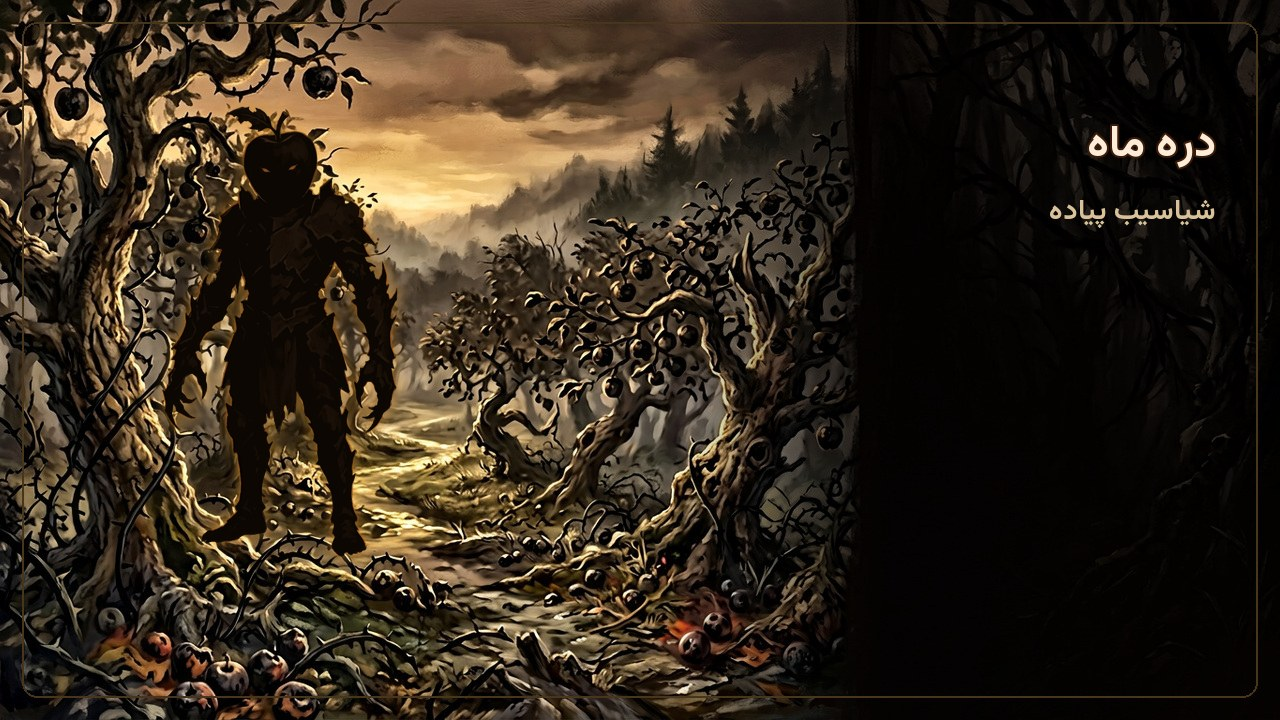
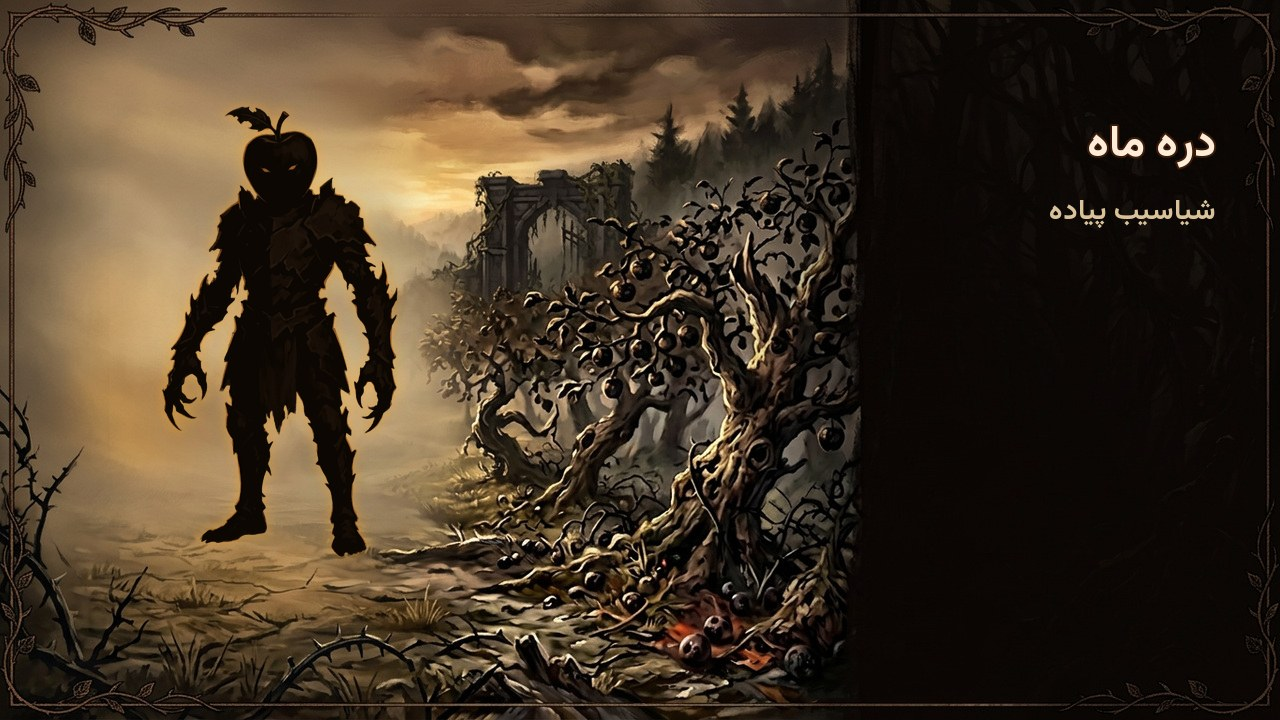
[phase-8a] finalize layout samples validation and report

diff --git a/tests/invasion_v2/test_imaging.py b/tests/invasion_v2/test_imaging.py
@@ -98,7 +98,7 @@ def test_cache_key_changes_with_manifest_version(tmp_path, monkeypatch):
     manifest_path.write_text(json.dumps(manifest))
     monkeypatch.setattr(templates, "ASSETS_ROOT", tmp_path)
     original = cache.cache_key("announcement", 123, "soldier")
-    manifest["version"] = "2"
+    manifest["version"] = f"{manifest['version']}-test-bump"
     manifest_path.write_text(json.dumps(manifest))
     assert cache.cache_key("announcement", 123, "soldier") != original
 

diff --git a/docs/invasion-rework/PHASE-8A-REPORT.md b/docs/invasion-rework/PHASE-8A-REPORT.md
@@ -4,26 +4,30 @@ Date: 2026-10-14 UTC
 Branch: `arena/0e56f627-sib`  
 Base: `8cc18ed5a9f93c631a3dcd21c49c0958e16b671d`
 
-## Status / release limitation
+## Final status
 
-**Static renderer implemented and tested; art acceptance partially blocked.**
-All 14 requested file paths exist and are committed, but there are **10 independent
-AI-generated source paintings plus 4 offline-derived layout plates**, not 14
-independent generations. The image service rejected all four layout requests with
-“Image generation limit of 10 reached for this turn.” No further generation was
-attempted after that response. These layouts are provisional integration assets,
-not final art approval. In particular:
+**All 14 independent AI-generated source images are now present, reviewed and
+committed. Static composition and the scoped regression checks are complete.**
+The original ten backgrounds/silhouettes are unchanged. Four dedicated layout
+paintings now replace every provisional derivative. Manifest version is **2**.
 
-- Victory is a gold/green-graded corrupted orchard, still too ominous; it does not
-  fully deliver the requested lush restored foliage and floating petals.
-- Defeat is a somber red/black ruined camp; the prominent shattered-apple motif
-  and falling ash requested for a dedicated painting are not fully realized.
-- Announcement and join have the required legibility/inset treatment, but are
-  derived from the soldier/king paintings rather than separately generated art.
+The first turn reached the service limit of ten image generations, as previously
+reported. Following the user's explicit continuation request, the four remaining
+images were generated successfully in the next turn; no generation limit was hit
+in that continuation. The earlier art-generation blocker is resolved.
 
-**Follow-up:** generate the four dedicated layouts in a subsequent turn, visually
-review them, update manifest hashes/version, rerun tests/benchmarks and refresh
-samples. Do not enable invasions or claim full visual completion on this basis.
+- Announcement: empty atmospheric orchard clearing on the left, dark caption panel
+  on the right, subtle botanical frame. An offline contrast pass ensures legibility.
+- Join: painterly corrupted orchard shrine with a soft neutral central portrait
+  inset; the 40%-opacity enemy reads clearly in the mist on the left.
+- Victory: restored green apple grove, radiant golden light, blossoms and floating
+  petals; an atmospheric painting without a border.
+- Defeat: charcoal ruins, cold ash, crimson embers and a prominent shattered red
+  apple; an atmospheric painting without a border.
+
+All four raw plates and the refreshed final compositions were visually reviewed
+for motifs, placement, absence of embedded text and legibility. This is local
+asset/compositor validation, not a live Telegram deployment or a flag activation.
 
 ## Style reference and font inspection
 
@@ -64,10 +68,10 @@ RGBA PNGs. All five silhouettes have an entirely transparent final 60 rows.
 | `backgrounds/king.jpg` | 1280×720 | 467,883 | RGB JPEG |
 | `backgrounds/shadow.jpg` | 1280×720 | 433,278 | RGB JPEG |
 | `backgrounds/soldier.jpg` | 1280×720 | 478,544 | RGB JPEG |
-| `layouts/announcement.jpg` | 1280×720 | 430,591 | RGB JPEG |
-| `layouts/defeat.jpg` | 1280×720 | 368,210 | RGB JPEG |
-| `layouts/join.jpg` | 1280×720 | 359,519 | RGB JPEG |
-| `layouts/victory.jpg` | 1280×720 | 547,877 | RGB JPEG |
+| `layouts/announcement.jpg` | 1280×720 | 296,459 | RGB JPEG |
+| `layouts/defeat.jpg` | 1280×720 | 324,258 | RGB JPEG |
+| `layouts/join.jpg` | 1280×720 | 330,404 | RGB JPEG |
+| `layouts/victory.jpg` | 1280×720 | 442,548 | RGB JPEG |
 | `silhouettes/brute.png` | 400×560 | 134,097 | RGBA PNG |
 | `silhouettes/commander.png` | 400×560 | 117,284 | RGBA PNG |
 | `silhouettes/king.png` | 400×560 | 113,877 | RGBA PNG |
@@ -83,16 +87,21 @@ RGBA PNGs. All five silhouettes have an entirely transparent final 60 rows.
   fitted each figure within a 352×452 safe area on a 400×560 transparent canvas,
   and baked a faint type-colored halo into alpha. There is no white background or
   extraction step at runtime. Silhouettes were reviewed against a dark surface.
-- Announcement derives from soldier: a soft right-side darkening and subtle
-  static frame. Join derives from king: dark softly vignetted portrait inset.
-  Victory derives from soldier with a brighter green/gold split grade; defeat
-  derives from commander with a dark red/black grade. These changes happen offline
-  and are baked into the committed JPEGs, not redrawn by the bot.
-- `manifest.json` version `1`, generator `manual-ai`, uses the actual UTC
-  preparation timestamp and SHA-256 calculated from each final file's bytes.
+- Four dedicated layout paintings were generated separately, using the existing
+  orchard/throne-room paintings and Green Knight's foliage/light as style
+  references only. They are not crops or grades substituted for new artwork.
+  Each was fitted to 1280×720 using Lanczos and saved as quality-94 JPEG (4:4:4).
+- Announcement's decorative edge had bright pixels in the right third. A smooth
+  offline-only darkening pass was baked into the right panel before final JPEG
+  export. No runtime background drawing or extra asset is needed.
+- `manifest.json` version **`2`**, generator `manual-ai`, uses the final preparation
+  UTC timestamp and recomputed SHA-256 for all 14 final files. The original ten
+  background/silhouette files retain exactly the same hashes as version 1.
   Source scratch images and processing intermediates are not tracked.
-- WCAG relative luminance computed over **every decoded JPEG pixel** in the
-  announcement right third yields a minimum white-text contrast of **10.6904:1**.
+- WCAG relative luminance computed over **every decoded JPEG pixel** in the final
+  announcement right third yields minimum white-text contrast **6.3315:1**,
+  exceeding the required 4.5:1. The previous derivative's 10.69:1 measurement
+  does not describe the replacement plate.
 
 ## Runtime implementation and compatibility
 
@@ -137,11 +146,11 @@ Python 3.11.2; Pillow 12.3.0; Linux x86_64; `raqm=False`.
 
 | Output | Mean ms (20 runs) | Max ms | First call ms* |
 |---|---:|---:|---:|
-| announcement | 11.31 | 12.29 | 38.00 |
-| join-normal | 106.87 | 118.78 | 139.40 |
-| join-crit | 125.01 | 161.52 | 121.80 |
-| victory | 25.56 | 26.16 | 40.25 |
-| defeat | 21.21 | 21.53 | 33.54 |
+| announcement | 10.70 | 13.11 | 36.70 |
+| join-normal | 104.45 | 112.30 | 128.14 |
+| join-crit | 113.97 | 116.69 | 120.49 |
+| victory | 24.24 | 25.19 | 39.02 |
+| defeat | 20.48 | 21.35 | 32.82 |
 
 *First call for each case in a shared process; earlier cases can warm shared
 fonts/effects. It is not five separate process-start benchmarks. All measured
@@ -164,7 +173,8 @@ PYTHONPATH="$(dirname "$PWD"):$PWD" .venv/bin/python scripts/invasion_v2/benchma
 - `docs/invasion-rework/samples/phase-8a/victory.jpg`
 - `docs/invasion-rework/samples/phase-8a/defeat.jpg`
 
-Each is a 1280×720 quality-88 JPEG. The benchmark regenerates them deliberately;
+Each is a 1280×720 quality-88 JPEG, regenerated with manifest v2's dedicated
+layouts. The benchmark regenerates them deliberately;
 normal bot execution does not write into the repository. Older Phase 5 samples
 are retained as historical documentation.
 
@@ -177,11 +187,14 @@ are retained as historical documentation.
   import-time missing-path reporting, copy isolation, invalid names/status,
   minimum panel contrast, atomic byte cache/pruning, card aspect/placeholder,
   and normal/critical performance.
+- Manifest version invalidation test now bumps relative to whatever version is
+  deployed instead of hardcoding `2`, so later asset releases cannot make it a no-op.
 - Updated Phase 5's palette-key assertion to use `templates.ENEMY_TYPES`; old
   image-returning signature coverage remains intact.
-- **183 passed, 0 failed**: all `tests/invasion_v2` plus
-  `tests/test_invasion_feature_flag.py`.
-- Broader optional character-art run: **190 passed, 4 failed** total. The same
+- **183 passed, 0 failed** (rerun after all four dedicated layouts and manifest v2
+  were installed; 12.11 seconds): all `tests/invasion_v2` plus
+  `tests/test_invasion_feature_flag.py`. This includes all 37 imaging cases.
+- Earlier broader optional character-art run (before layout replacement): **190 passed, 4 failed** total. The same
   four failures reproduced with the base commit's entire imaging package loaded
   in-memory instead of this implementation (**7 passed, 4 failed** for the
   character-art module alone). Existing failure reasons:
@@ -217,15 +230,19 @@ and `numpy` (offline asset preparation only). Runtime dependency files are uncha
   presentation and admin handlers are byte-for-byte unchanged from the base.
 - No production or archived `_archive_inv1_*` tables were accessed. Existing
   migration tests operate solely on isolated disposable SQLite databases.
-- No push, merge, bot startup, or feature activation was performed. The four
-  requested commit chunks are on the session branch only.
+- No push, merge, bot startup, or feature activation was performed. The original four
+  requested commit chunks plus the final-layout completion commits are on the
+  session branch only.
 
 ## Remaining limitations
 
-The four dedicated AI layout generations and final visual sign-off are the main
-blocker. No request to regenerate unsatisfactory art could be completed after
-the per-turn generation cap; the provisional result plates must be replaced,
-not described as final high-quality fulfillment. Real Telegram preview and
-MariaDB integration were not exercised. The unchanged raqm path was not executable
-on this Pillow build. Existing card lettering and legacy caller data limitations
-are described above; they are not altered silently in this phase.
+There is **no remaining image-generation blocker** and no provisional layout in
+the runtime inventory. Final image quality and text placement were reviewed locally;
+a real Telegram preview and MariaDB integration were not exercised. The unchanged
+raqm path was not executable on this Pillow build. The earlier unrelated four
+character-art test failures remain outside this phase; the whole repository suite
+is not claimed green. Existing card lettering and legacy caller data limitations
+are described above and were not altered silently.
+
+`invasion_enabled` stays untouched at the supplied false state; no live DB audit
+was performed and enabling the feature is not part of this delivery.

diff --git a/docs/invasion-rework/PHASE-1-ASSETS.md b/docs/invasion-rework/PHASE-1-ASSETS.md
@@ -4,12 +4,12 @@ The historical Phase 1 square-canvas proposal and Phase 5 procedural art are
 superseded. Runtime now loads committed static artwork from
 `assets/invasion_v2/`; it does not generate backgrounds or enemy shapes.
 
-**Art acceptance is not complete:** ten independent AI paintings were generated.
-A service limit of ten image generations per turn prevented the four dedicated
-layout generations. Four static derivatives are present for integration/testing;
-victory/defeat in particular need replacement before visual sign-off. See
-[PHASE-8A-REPORT.md](PHASE-8A-REPORT.md) for provenance, exact sizes and limitations.
-Do not treat these provisional layouts as approval to enable invasions.
+**Phase 8A inventory complete:** all 14 images now have independently generated
+AI source artwork. Four dedicated layouts replaced the provisional derivatives
+in the continuation turn after the initial generation cap. Manifest version **2**
+invalidates old cached compositions. See [PHASE-8A-REPORT.md](PHASE-8A-REPORT.md)
+for provenance, exact sizes, current timings and validation limitations.
+This does not enable invasions or change the feature flag.
 
 ## Current runtime inventory (14 images)
 
@@ -29,10 +29,10 @@ sprites are RGBA with baked colored halos and a fully transparent bottom 60 px.
 | `silhouettes/commander.png` | 400×560 | AI-painted horned armored commander, red halo |
 | `silhouettes/brute.png` | 400×560 | AI-painted broad spiked brute, orange halo |
 | `silhouettes/king.png` | 400×560 | AI-painted skeletal crowned apple king, green halo |
-| `layouts/announcement.jpg` | 1280×720 | Static orchard derivative, dark right panel and subtle frame |
-| `layouts/join.jpg` | 1280×720 | Static throne-room derivative, soft dark central portrait inset |
-| `layouts/victory.jpg` | 1280×720 | **Provisional** gold/green-graded orchard; dedicated triumphant painting pending |
-| `layouts/defeat.jpg` | 1280×720 | **Provisional** red/black-graded war camp; dedicated defeat painting pending |
+| `layouts/announcement.jpg` | 1280×720 | Dedicated AI orchard clearing, dark right panel and subtle frame |
+| `layouts/join.jpg` | 1280×720 | Dedicated AI orchard shrine, soft dark central portrait inset |
+| `layouts/victory.jpg` | 1280×720 | Dedicated AI restored grove, golden light, green foliage and floating petals |
+| `layouts/defeat.jpg` | 1280×720 | Dedicated AI somber ruins, falling ash and shattered crimson apple |
 
 `manifest.json` records version, UTC timestamp, generator, dimensions and SHA-256
 of every final image's actual file bytes. Bump its version and recalculate hashes
@@ -43,7 +43,7 @@ when replacing artwork. No generation tool or preparation script runs in the bot
 - 1280×720 output JPEGs, quality 88.
 - Announcement: static announcement plate, natural-size sprite at (80, 80),
   right-aligned region/enemy text. The plate's right third has a measured minimum
-  **10.69:1** contrast against pure white (requirement: 4.5:1).
+  **6.33:1** contrast against pure white (requirement: 4.5:1).
 - Join: static join plate, 40%-opacity enemy, centered local card contained within
   420×580 without aspect distortion/cropping; rounded 16 px corners, 4 px dark
   border, shadow. Username, damage, optional critical treatment and remaining HP.
